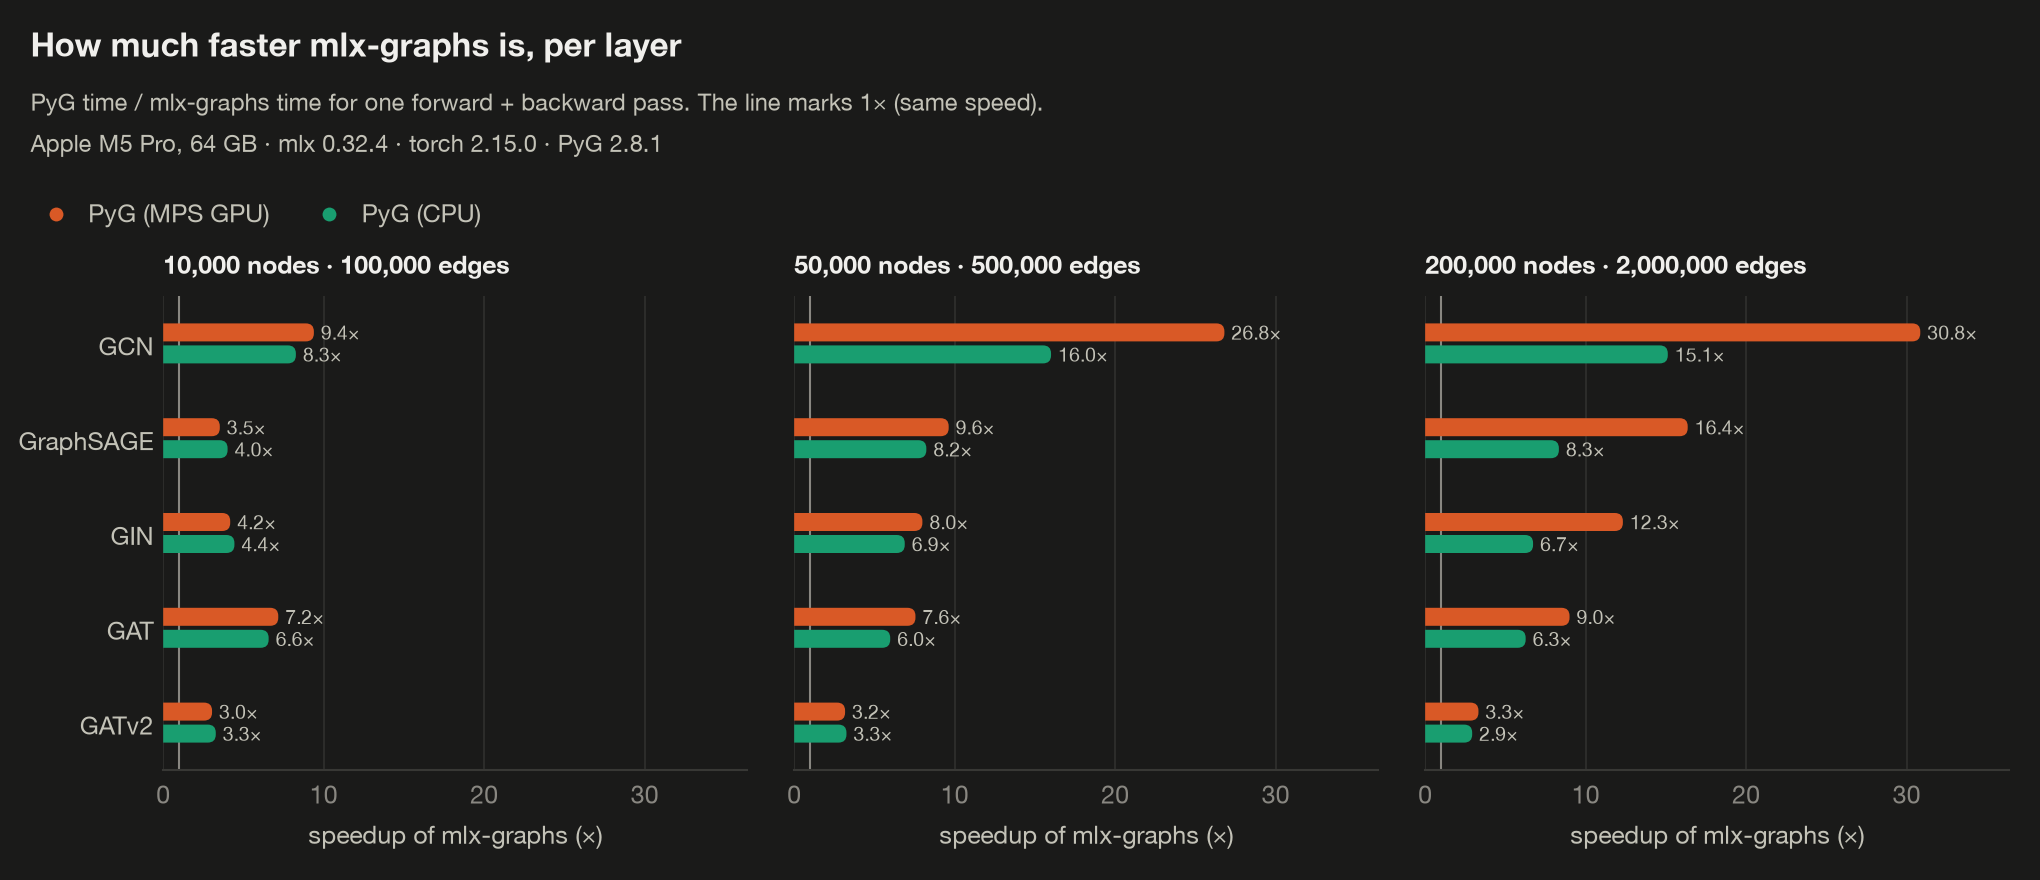
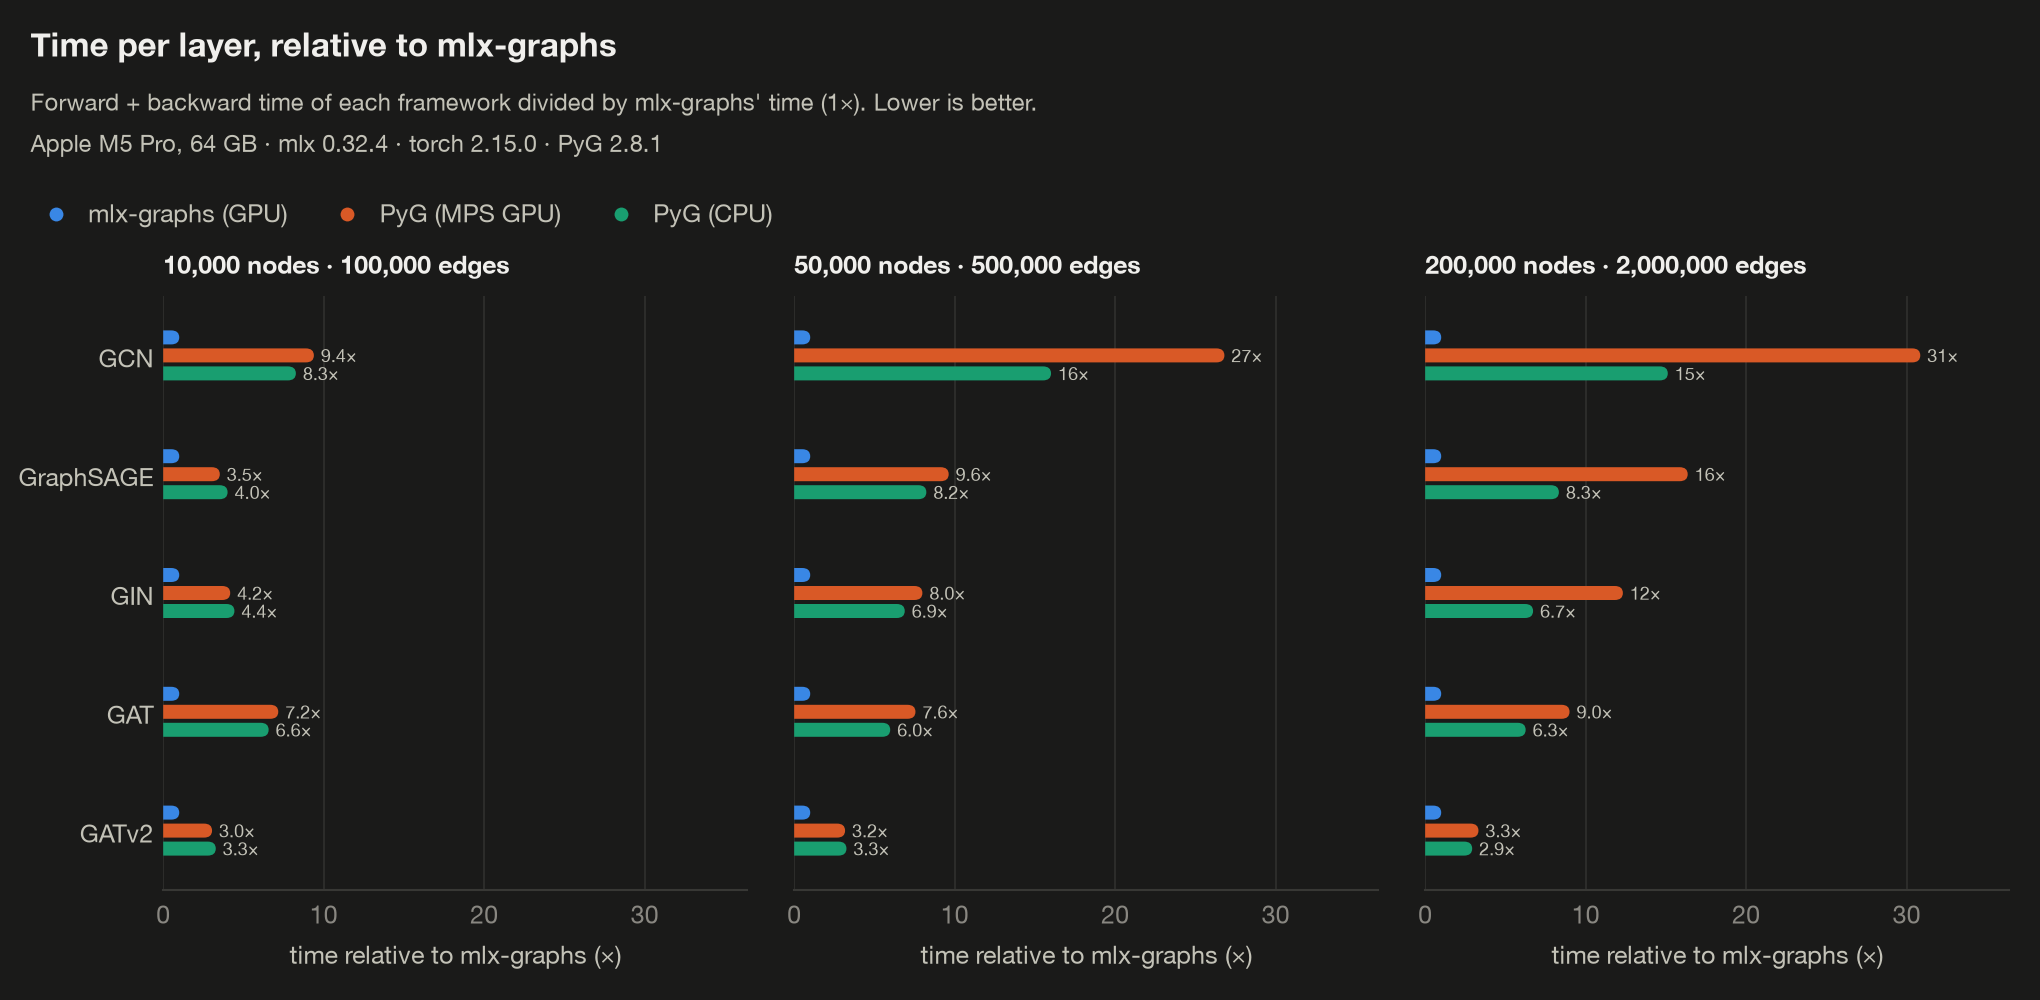
Show mlx-graphs next to PyG in the per-layer benchmark chart
The first README chart now plots every framework's forward + backward time
relative to mlx-graphs (mlx-graphs = 1×), instead of PyG's speedup alone,
so mlx-graphs' bar is drawn next to PyG on MPS and on CPU.

diff --git a/benchmarks/pyg_comparison/plot.py b/benchmarks/pyg_comparison/plot.py
@@ -356,38 +356,40 @@ def fig_layers(records, system, theme, out):
 
 
 def fig_layer_speedup(records, system, theme, out):
+    """Time of every framework relative to mlx-graphs (mlx-graphs = 1×)."""
     data = index(records, "layer", "num_nodes", "num_edges", "layer")
     graphs = sorted({(n, e) for n, e, _ in data}, key=lambda g: g[1])
     layers = [layer for layer in LAYER_NAMES if any(k[2] == layer for k in data)]
-    baselines = ["pyg-mps", "pyg-cpu"]
 
-    speedups = {}
+    ratios = {}
     for key, per_fw in data.items():
         mlx = per_fw.get("mlx-graphs")
         if not mlx or mlx.get("status") != "ok":
             continue
-        for fw in baselines:
+        for fw in FRAMEWORKS:
             r = per_fw.get(fw)
             if r and r.get("status") == "ok":
-                speedups[key + (fw,)] = (
+                ratios[key + (fw,)] = (
                     r["forward_backward_ms"] / mlx["forward_backward_ms"]
                 )
-    hi = max(speedups.values()) * 1.18
+    hi = max(ratios.values()) * 1.18
 
+    height = 5.0
     fig, axes = plt.subplots(
-        1, len(graphs), figsize=(3.4 * len(graphs), 4.4), sharey=True
+        1, len(graphs), figsize=(3.4 * len(graphs), height), sharey=True
     )
     top = header(
         fig,
         theme,
-        "How much faster mlx-graphs is, per layer",
-        "PyG time / mlx-graphs time for one forward + backward pass. "
-        "The line marks 1× (same speed).",
+        "Time per layer, relative to mlx-graphs",
+        "Forward + backward time of each framework divided by mlx-graphs' time "
+        "(1×). Lower is better.",
         system,
-        frameworks=baselines,
     )
-    fig.subplots_adjust(left=0.08, right=0.985, top=top, bottom=0.55 / 4.4, wspace=0.08)
-    bar_px, gap_px = 9, 2
+    fig.subplots_adjust(
+        left=0.08, right=0.985, top=top, bottom=0.55 / height, wspace=0.08
+    )
+    bar_px, gap_px = 7, 2
     for ax, (n, e) in zip(axes, graphs):
         ax.set_xlim(0, hi)
         ax.set_ylim(len(layers) - 0.5, -0.5)
@@ -395,17 +397,17 @@ def fig_layer_speedup(records, system, theme, out):
         ax.set_yticklabels([LAYER_NAMES[layer] for layer in layers])
         style_axis(ax, theme)
         ax.set_title(f"{n:,} nodes · {e:,} edges", fontsize=9)
-        ax.set_xlabel("speedup of mlx-graphs (×)")
+        ax.set_xlabel("time relative to mlx-graphs (×)")
         fig.canvas.draw()  # layout is final: pixel sizes can be computed
         px_per_y = abs(
             ax.transData.transform((0, 1))[1] - ax.transData.transform((0, 0))[1]
         )
-        offset = (bar_px + gap_px) / 2 / px_per_y
+        step = (bar_px + gap_px) / px_per_y
         for i, layer in enumerate(layers):
-            for j, fw in enumerate(baselines):
-                y = i + (offset if j else -offset)
-                s = speedups.get((n, e, layer, fw))
-                if s is None:
+            for j, fw in enumerate(FRAMEWORKS):
+                y = i + (j - 1) * step
+                ratio = ratios.get((n, e, layer, fw))
+                if ratio is None:
                     reason = failure_reason(data[(n, e, layer)].get(fw, {}))
                     ax.text(
                         0.02 * hi,
@@ -416,16 +418,17 @@ def fig_layer_speedup(records, system, theme, out):
                         color=theme["muted"],
                     )
                     continue
-                rounded_hbar(ax, y, s, bar_px, theme["series"][fw])
+                rounded_hbar(ax, y, ratio, bar_px, theme["series"][fw])
+                if fw == "mlx-graphs":
+                    continue  # always 1×, as the subtitle says
                 ax.text(
-                    s + 0.012 * hi,
+                    ratio + 0.012 * hi,
                     y,
-                    f"{s:.1f}×",
+                    f"{ratio:.0f}×" if ratio >= 10 else f"{ratio:.1f}×",
                     va="center",
-                    fontsize=7,
+                    fontsize=6.5,
                     color=theme["secondary"],
                 )
-        ax.axvline(1, color=theme["muted"], linewidth=1 * PX, zorder=0)
     fig.savefig(out, dpi=DPI)
     plt.close(fig)
 
@@ -599,8 +602,8 @@ def tables(records, system):
             "",
             *figure(
                 "layers_speedup",
-                "Speedup of mlx-graphs over PyG on MPS and on CPU, per layer "
-                "and graph size",
+                "Forward and backward time per layer and graph size, relative "
+                "to mlx-graphs, for mlx-graphs, PyG on MPS and PyG on CPU",
             ),
             *figure(
                 "layers_time",

diff --git a/README.md b/README.md
@@ -56,7 +56,7 @@ same data, same hyperparameters:
 
 <picture>
   <source media="(prefers-color-scheme: dark)" srcset="benchmarks/pyg_comparison/results/Apple_M5_Pro/figures/layers_speedup_dark.png">
-  <img alt="Speedup of mlx-graphs over PyG on MPS and on CPU for one forward and backward pass of GCN, GraphSAGE, GIN, GAT and GATv2 on random graphs of 100 thousand, 500 thousand and 2 million edges" src="benchmarks/pyg_comparison/results/Apple_M5_Pro/figures/layers_speedup_light.png">
+  <img alt="Time of one forward and backward pass of GCN, GraphSAGE, GIN, GAT and GATv2, relative to mlx-graphs, for mlx-graphs, PyG on MPS and PyG on CPU, on random graphs of 100 thousand, 500 thousand and 2 million edges" src="benchmarks/pyg_comparison/results/Apple_M5_Pro/figures/layers_speedup_light.png">
 </picture>
 
 <picture>

diff --git a/benchmarks/pyg_comparison/results/Apple_M5_Pro/results.md b/benchmarks/pyg_comparison/results/Apple_M5_Pro/results.md
@@ -10,7 +10,7 @@ Random graphs, 128 input and output features, 4 heads for GAT/GATv2.
 
 <picture>
   <source media="(prefers-color-scheme: dark)" srcset="figures/layers_speedup_dark.png">
-  <img alt="Speedup of mlx-graphs over PyG on MPS and on CPU, per layer and graph size" src="figures/layers_speedup_light.png">
+  <img alt="Forward and backward time per layer and graph size, relative to mlx-graphs, for mlx-graphs, PyG on MPS and PyG on CPU" src="figures/layers_speedup_light.png">
 </picture>
 
 <picture>
